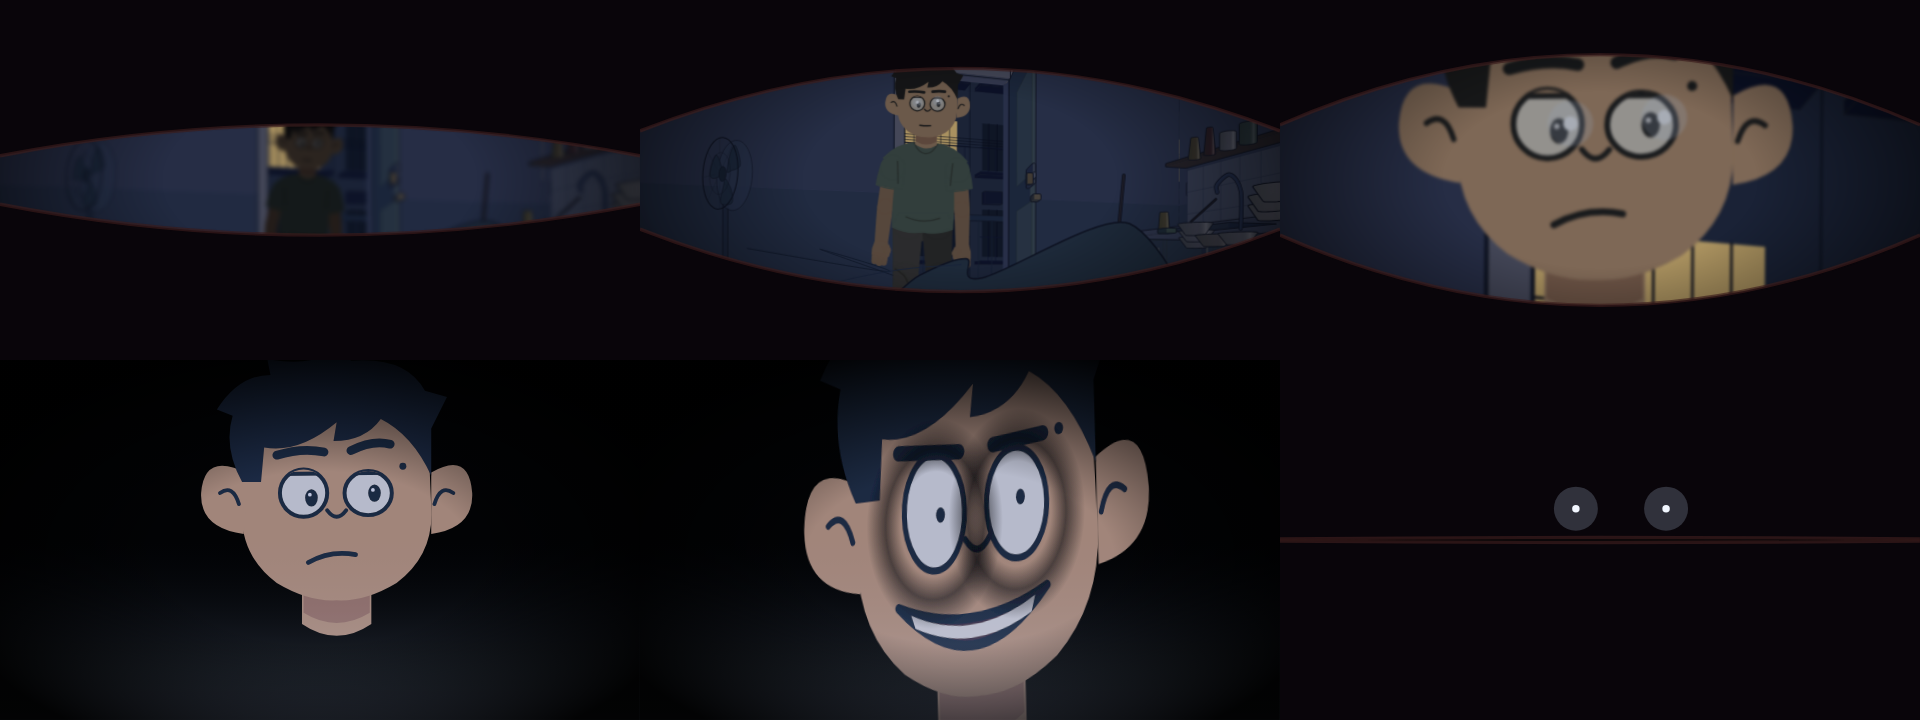
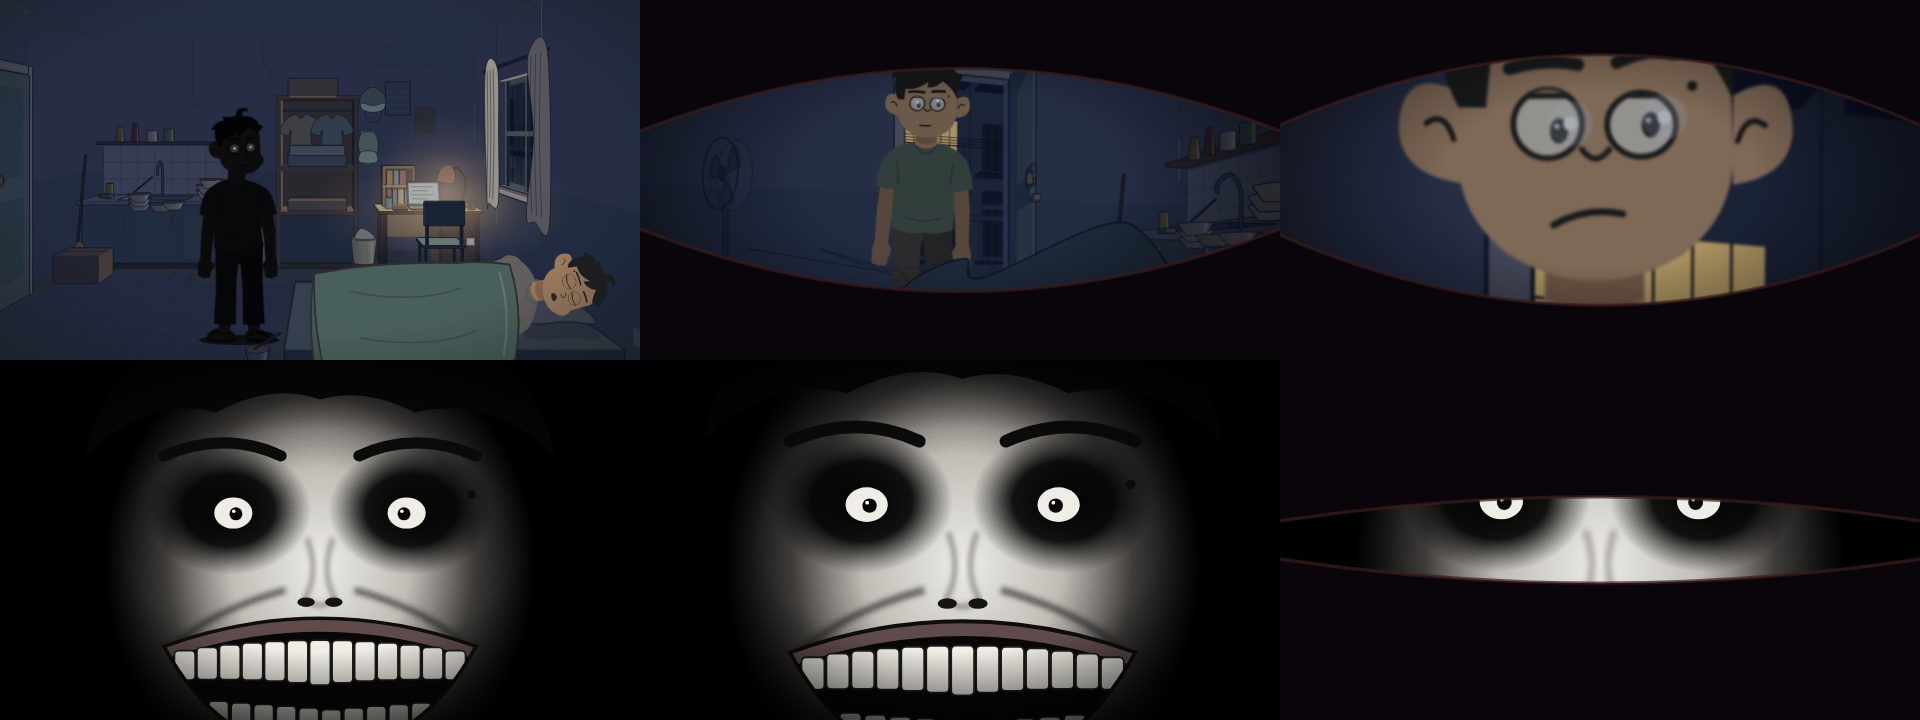
Jumpscare: hard cut to a drawn high-contrast scare face, shorter hit
Replace the warped cartoon close-up with a custom monochrome face (deep
sockets, small staring eyes, wide toothy grin, grain) that keeps the
double's curl and right-side mole. A short silence precedes the cut;
the scare lasts about 0.7 s before Nam's eyelids slam shut.

Claude-Session: https://claude.ai/code/session_015xtvRhLRyfqVC2mbHabEYR

diff --git a/what-if-studio/src/episodes/ho-so-02-nguoi-lam-thay/trailer-jumpscare.tsx b/what-if-studio/src/episodes/ho-so-02-nguoi-lam-thay/trailer-jumpscare.tsx
@@ -1,6 +1,6 @@
 import React from 'react';
 import { AbsoluteFill, Audio, interpolate, Sequence, staticFile, useCurrentFrame } from 'remotion';
-import { mixPose, sampleWalk, STAND_POSE, StudentTwinBody, StudentTwinHead } from '../../../../episodes/hem-co-chuyen/ho-so-02-nguoi-lam-thay/assets/nhan-vat';
+import { mixPose, sampleWalk, STAND_POSE, StudentTwinBody } from '../../../../episodes/hem-co-chuyen/ho-so-02-nguoi-lam-thay/assets/nhan-vat';
 import { placeOn, RoomNight } from '../../../../episodes/hem-co-chuyen/ho-so-02-nguoi-lam-thay/assets/boi-canh/boi-canh';
 import { Sleeper } from './canh-01-demo';
 
@@ -9,17 +9,16 @@ import { Sleeper } from './canh-01-demo';
  * W: toàn phòng ban đêm, Nam nằm ngủ (mẫu nằm toàn thân `Sleeper`). Bóng đen người đứng im cạnh nệm nhìn Nam;
  *    gần cuối cảnh hai đốm mắt trong bóng đen lóe sáng (giữ từ bản jumpscare đầu).
  * P: mắt Nam, mí còn nặng, mở dần, cảnh nhòe. Người kia, có mặt Nam, đi vào từ cửa; hai đốm mắt sáng lên khi Nam chớp mắt nhận ra.
- * C: người kia cúi sát, mặt lớn dần trong im lặng, nụ cười nở chậm; rồi một cú giật: khung rung, mí Nam sập xuống,
- *    trong bóng tối chỉ còn hai đốm mắt sáng rồi tắt. Không há miệng.
+ * C: im bặt một nhịp, cắt phụt vào mặt dọa (đen trắng, hốc mắt sâu, cười toác đầy răng), rung mạnh rồi mí Nam sập, đen. Không há miệng nuốt.
  * Báo thức và tên phim nằm ở timeline trailer, không trong clip này.
- * Âm: tiếng phòng ở W và P, tiếng ù thấp dâng ở C, tiếng hù đúng lúc mí sập (file thư viện chép vào public, xem P1.00).
+ * Âm: tiếng phòng ở W và P, tiếng ù thấp dâng cuối P, im 6 frame, tiếng hù đúng lúc cắt vào mặt (file thư viện chép vào public, xem P1.00).
  */
 export const WIDE = 66; // 2,2 giây toàn phòng
 export const POV = 150; // 5 giây mắt Nam: người kia tiến lại gần dần, máy zoom liền vào đầu
-export const CLOSE = 66; // 2,2 giây cận mặt đến lúc sập mí
-export const BLACK = 20;
+export const CLOSE = 20; // 0,67 giây: cắt phụt vào mặt dọa rồi sập tối, dứt khoát
+export const BLACK = 16;
 export const JUMP_TOTAL = WIDE + POV + CLOSE + BLACK;
-export const SLAM_AT = 0.82; // phần của C mà mí sập xuống
+export const SLAM_AT = 0.72; // phần của C mà mí sập xuống
 export const EYES_ON = 48; // frame hai đốm mắt lóe sáng ở cảnh toàn phòng
 
 const ease = (x: number) => x * x * (3 - 2 * x);
@@ -127,56 +126,70 @@ export const PovFrame: React.FC<{ u: number }> = ({ u }) => {
   );
 };
 
-/** Cận mặt: k 0..1 trong đoạn C. Lún dần vào mặt, nụ cười nở chậm; đến SLAM_AT thì giật, mí sập, chỉ còn hai đốm mắt. */
-export const CloseFrame: React.FC<{ k: number }> = ({ k }) => {
-  const lean = ease(clamp(k / SLAM_AT));
-  const s = 4.4 + 2.2 * lean;
-  const hx = 1010, hy = 300 - 78 * s;
-  const slam = clamp((k - SLAM_AT) / 0.05); // mí sập trong ~3 frame
-  const after = k >= SLAM_AT + 0.05;
-  const kick = k >= SLAM_AT && k < SLAM_AT + 0.12 ? Math.sin((k - SLAM_AT) * 260) * 60 * (1 - (k - SLAM_AT) / 0.12) : 0;
-  const tremor = Math.sin(k * 140) * 2.5 * lean;
-  const lids = 1 - ease(slam); // 1 mở, 0 khép
-  const eyeA = after ? 1 - clamp((k - SLAM_AT - 0.1) / 0.1) : 0;
-  const ex = (dx: number) => hx + (dx - 10) * s, ey = hy + 99 * s;
-  const w = ease(clamp((k - 0.4) / (SLAM_AT - 0.4))); // độ méo hình, tăng dần tới lúc dọa
-  const cy = hy + 95 * s;
-  const warp = `translate(${hx} ${cy}) rotate(${(-9 * w).toFixed(2)}) skewX(${(-7 * w).toFixed(2)}) scale(${(1 - 0.08 * w).toFixed(3)} ${(1 + 0.34 * w).toFixed(3)}) translate(${-hx} ${-cy})`;
-  const seed = Math.floor(k * 66) % 7 + 1;
+/** Mặt dọa: vẽ riêng cho cú hù, đen trắng tương phản mạnh, hốc mắt sâu, mắt nhỏ trừng, cười toác đầy răng, có hạt nhiễu.
+ *  Giữ tóc có lọn xoăn và nốt ruồi bên phải để vẫn nhận ra là bản sao của Nam. k 0..1 trong đoạn C. */
+const upperLip = (x: number) => { const t = (x - 600) / 720; return 770 - 130 * t * (1 - t); };
+export const ScareFace: React.FC<{ k: number }> = ({ k }) => {
+  const z = 1.3 + 0.18 * ease(clamp(k / SLAM_AT));
+  const amp = 34 * (1 - clamp(k / SLAM_AT));
+  const sx = Math.sin(k * 140) * amp, sy = Math.cos(k * 113) * amp * 0.6;
+  const slam = clamp((k - SLAM_AT) / 0.12);
+  const seed = Math.floor(k * 40) % 9 + 1;
+  const up = Array.from({ length: 13 }, (_, j) => j - 6);
+  const mouth = 'M600 770 Q960 640 1320 770 Q1190 1010 960 1012 Q730 1010 600 770 Z';
   return (
-    <AbsoluteFill style={{ background: '#020305' }}>
+    <AbsoluteFill style={{ background: '#000' }}>
       <svg width={1920} height={1080} viewBox="0 0 1920 1080">
         <defs>
-          <linearGradient id="cl-under" x1="0" y1="1" x2="0" y2="0"><stop offset="0" stopColor="#bcd6ff" stopOpacity=".5" /><stop offset=".5" stopColor="#0b1222" stopOpacity="0" /></linearGradient>
-          <radialGradient id="cl-vig" cx=".5" cy=".55" r=".6"><stop offset=".4" stopColor="#000" stopOpacity="0" /><stop offset="1" stopColor="#000" stopOpacity=".95" /></radialGradient>
-          <radialGradient id="cl-socket"><stop offset="0" stopColor="#05060a" stopOpacity="0" /><stop offset=".5" stopColor="#05060a" stopOpacity="0" /><stop offset=".72" stopColor="#05060a" stopOpacity=".7" /><stop offset="1" stopColor="#05060a" stopOpacity="0" /></radialGradient>
-          <filter id="cl-warp" x="-20%" y="-20%" width="140%" height="140%"><feTurbulence type="fractalNoise" baseFrequency=".006 .018" numOctaves="2" seed={seed} result="n" /><feDisplacementMap in="SourceGraphic" in2="n" scale={46 * w} xChannelSelector="R" yChannelSelector="G" /></filter>
-          <filter id="cl-face"><feColorMatrix type="matrix" values=".5 0 0 0 0  0 .54 0 0 .01  0 0 .7 0 .04  0 0 0 1 0" /></filter>
+          <radialGradient id="sf-light" cx=".5" cy=".5" r=".55"><stop offset="0" stopColor="#ecebe6" /><stop offset=".36" stopColor="#bdbab3" /><stop offset=".62" stopColor="#3a3835" /><stop offset=".86" stopColor="#000" /></radialGradient>
+          <radialGradient id="sf-socket"><stop offset="0" stopColor="#000" stopOpacity="1" /><stop offset=".55" stopColor="#000" stopOpacity=".92" /><stop offset="1" stopColor="#000" stopOpacity="0" /></radialGradient>
+          <radialGradient id="sf-vig" cx=".5" cy=".5" r=".62"><stop offset=".5" stopColor="#000" stopOpacity="0" /><stop offset="1" stopColor="#000" stopOpacity="1" /></radialGradient>
+          <clipPath id="sf-mouth"><path d={mouth} /></clipPath>
+          <filter id="sf-grain"><feTurbulence type="fractalNoise" baseFrequency=".9" numOctaves="2" seed={seed} /><feColorMatrix type="saturate" values="0" /></filter>
+          <filter id="sf-soft"><feGaussianBlur stdDeviation="6" /></filter>
         </defs>
-        <g transform={`translate(${960 + kick + tremor} ${540 + kick * 0.5}) translate(-960 -540)`}>
-          {!after && (
-            <g>
-              <g filter={w > 0.05 ? 'url(#cl-warp)' : undefined}>
-                <g transform={warp}>
-                  <g filter="url(#cl-face)"><StudentTwinHead identity="nguoi-kia" mood={k < 0.45 ? 'eerie_smirk' : 'stare_grin'} view="front" x={hx} y={hy} scale={s} id="cl-head" /></g>
-                  {w > 0 && [-11, 30].map((dx, i) => (
-                    <ellipse key={i} cx={ex(dx)} cy={ey + 4 * s} rx={34 * s} ry={38 * s} fill="url(#cl-socket)" opacity={w} />
-                  ))}
-                </g>
-              </g>
-              <rect x={-200} y={-200} width={2320} height={1480} fill="url(#cl-under)" style={{ mixBlendMode: 'screen' }} />
+        <g transform={`translate(${960 + sx} ${540 + sy}) scale(${z}) translate(-960 -540)`}>
+          {/* Khối mặt sáng từ chính diện, tối dần ra mép */}
+          <path d="M960 10 C1380 10 1500 360 1480 600 C1460 880 1250 1150 960 1160 C670 1150 460 880 440 600 C420 360 540 10 960 10 Z" fill="url(#sf-light)" />
+          {/* Tóc tối hòa vào nền, có lọn xoăn trên đỉnh */}
+          <path d="M420 330 Q450 40 960 -20 Q1470 40 1500 330 Q1360 190 1180 230 Q1060 170 960 200 Q850 160 720 230 Q560 190 420 330 Z" fill="#070707" />
+          <path d="M900 -10 Q980 -120 1060 -40 Q1010 -70 980 -20 Z" fill="#070707" />
+          {/* Hốc mắt sâu */}
+          <ellipse cx={750} cy={455} rx={190} ry={150} fill="url(#sf-socket)" />
+          <ellipse cx={1170} cy={455} rx={190} ry={150} fill="url(#sf-socket)" />
+          {/* Mắt nhỏ trừng, con ngươi nhìn thẳng */}
+          {[[760, 462], [1160, 462]].map(([x, y], i) => (
+            <g key={i}>
+              <ellipse cx={x} cy={y} rx={44} ry={36} fill="#efede6" />
+              <circle cx={x + (i ? -6 : 6)} cy={y + 2} r={15} fill="#060606" />
+              <circle cx={x + (i ? -11 : 1)} cy={y - 4} r={4} fill="#ffffff" />
             </g>
-          )}
-        </g>
-        <rect width={1920} height={1080} fill="url(#cl-vig)" />
-        {k >= SLAM_AT && <Lids s={lids} />}
-        {after && eyeA > 0 && (
-          <g opacity={eyeA} transform={`translate(${kick + tremor} ${kick * 0.5})`}>
-            {[-11, 30].map((dx, i) => (
-              <g key={i}><circle cx={ex(dx)} cy={ey} r={10 * s} fill="#cfe2ff" opacity={0.2} /><circle cx={ex(dx)} cy={ey} r={1.7 * s} fill="#f2f7ff" /></g>
-            ))}
+          ))}
+          {/* Lông mày hất cao */}
+          <path d="M600 330 Q740 270 870 330" fill="none" stroke="#0a0a0a" strokeWidth={26} strokeLinecap="round" />
+          <path d="M1050 330 Q1180 270 1320 330" fill="none" stroke="#0a0a0a" strokeWidth={26} strokeLinecap="round" />
+          {/* Nốt ruồi bên phải (dấu của bản sao) */}
+          <circle cx={1310} cy={420} r={10} fill="#0a0a0a" />
+          {/* Mũi: sống mũi sáng, cánh mũi và lỗ mũi tối */}
+          <path d="M930 520 Q960 600 925 660 Q960 690 995 660 Q960 600 990 520" fill="none" stroke="#3a3836" strokeWidth={10} opacity={0.5} filter="url(#sf-soft)" />
+          <ellipse cx={928} cy={668} rx={20} ry={11} fill="#141312" />
+          <ellipse cx={992} cy={668} rx={20} ry={11} fill="#141312" />
+          {/* Rãnh má kéo căng về khoé miệng */}
+          <path d="M880 640 Q700 690 610 780" fill="none" stroke="#1c1b1a" strokeWidth={16} opacity={0.6} filter="url(#sf-soft)" />
+          <path d="M1040 640 Q1220 690 1310 780" fill="none" stroke="#1c1b1a" strokeWidth={16} opacity={0.6} filter="url(#sf-soft)" />
+          {/* Miệng toác: lòng tối, lợi, hai hàm răng */}
+          <path d={mouth} fill="#080505" />
+          <g clipPath="url(#sf-mouth)">
+            <path d="M600 770 Q960 640 1320 770 L1320 800 Q960 672 600 800 Z" fill="#5b4747" />
+            {up.map((j) => { const x = 960 + j * 52, y = upperLip(x) + 18, h = 104 - Math.abs(j) * 6; return <rect key={`u${j}`} x={x - 24} y={y} width={48} height={h} rx={10} fill="#f0ede4" stroke="#1a1a1a" strokeWidth={4} />; })}
+            {up.map((j) => { const x = 960 + j * 52 + 26, h = 84 - Math.abs(j) * 5; return <rect key={`l${j}`} x={x - 23} y={1000 - h - Math.abs(j) * 9} width={46} height={h + 40} rx={10} fill="#dedbd2" stroke="#1a1a1a" strokeWidth={4} />; })}
           </g>
-        )}
+          <path d={mouth} fill="none" stroke="#0d0b0b" strokeWidth={8} />
+        </g>
+        <rect width={1920} height={1080} filter="url(#sf-grain)" opacity={0.2} style={{ mixBlendMode: 'overlay' }} />
+        <rect width={1920} height={1080} fill="url(#sf-vig)" />
+        {slam > 0 && <Lids s={1 - ease(slam)} />}
+        {slam >= 1 && <rect width={1920} height={1080} fill="#000" />}
       </svg>
     </AbsoluteFill>
   );
@@ -184,13 +197,13 @@ export const CloseFrame: React.FC<{ k: number }> = ({ k }) => {
 
 /** Âm thanh: file thư viện chép vào public/ho-so-02-nguoi-lam-thay/sfx/ (thư mục bị Git bỏ qua). */
 const SFX = (name: string) => staticFile(`ho-so-02-nguoi-lam-thay/sfx/${name}`);
-const SLAM_FRAME = WIDE + POV + Math.round(CLOSE * SLAM_AT);
 export const JumpAudio: React.FC = () => (
   <>
-    <Sequence durationInFrames={WIDE + POV}><Audio src={SFX('room_tone.mp3')} volume={0.5} /></Sequence>
-    <Sequence from={WIDE + POV - 12} durationInFrames={SLAM_FRAME - (WIDE + POV - 12)}><Audio src={SFX('power_hum.mp3')} volume={0.35} /></Sequence>
-    <Sequence from={SLAM_FRAME}><Audio src={SFX('drone_hit.mp3')} volume={1} /></Sequence>
-    <Sequence from={SLAM_FRAME}><Audio src={SFX('glitch.mp3')} volume={0.5} /></Sequence>
+    <Sequence durationInFrames={WIDE + POV - 6}><Audio src={SFX('room_tone.mp3')} volume={0.5} /></Sequence>
+    <Sequence from={WIDE + POV - 40} durationInFrames={34}><Audio src={SFX('power_hum.mp3')} volume={0.35} /></Sequence>
+    {/* 6 frame im bặt trước cú hù */}
+    <Sequence from={WIDE + POV}><Audio src={SFX('drone_hit.mp3')} volume={1} /></Sequence>
+    <Sequence from={WIDE + POV}><Audio src={SFX('glitch.mp3')} volume={0.5} /></Sequence>
   </>
 );
 
@@ -199,14 +212,14 @@ export const HoSo02TrailerJumpscare: React.FC = () => {
   const view = f < WIDE
     ? <JumpWide t={interpolate(f, [0, WIDE], [0, 1])} eyes={interpolate(f, [EYES_ON, EYES_ON + 6], [0, 1], { extrapolateLeft: 'clamp', extrapolateRight: 'clamp' })} />
     : f < WIDE + POV ? <PovFrame u={(f - WIDE) / POV} />
-    : f < WIDE + POV + CLOSE ? <CloseFrame k={(f - WIDE - POV) / CLOSE} />
+    : f < WIDE + POV + CLOSE ? <ScareFace k={(f - WIDE - POV) / CLOSE} />
     : <AbsoluteFill style={{ background: '#000' }} />;
   return <AbsoluteFill>{view}<JumpAudio /></AbsoluteFill>;
 };
 
 /** Sáu khung tĩnh để duyệt: người kia tiến lại gần, zoom vào đầu, mặt méo dần, mí sập. */
 export const HoSo02JumpscareBoard: React.FC = () => {
-  const panels: React.ReactNode[] = [<PovFrame u={0.4} />, <PovFrame u={0.72} />, <PovFrame u={0.97} />, <CloseFrame k={0.2} />, <CloseFrame k={0.7} />, <CloseFrame k={0.87} />];
+  const panels: React.ReactNode[] = [<JumpWide t={1} eyes={1} />, <PovFrame u={0.72} />, <PovFrame u={0.97} />, <ScareFace k={0} />, <ScareFace k={0.5} />, <ScareFace k={0.8} />];
   return (
     <div style={{ width: 1920, height: 720, display: 'grid', gridTemplateColumns: '1fr 1fr 1fr', gridTemplateRows: '1fr 1fr', background: '#111' }}>
       {panels.map((el, i) => (

diff --git a/episodes/hem-co-chuyen/ho-so-02-nguoi-lam-thay/PHAN-01-NGUOI-TRONG-PHONG.md b/episodes/hem-co-chuyen/ho-so-02-nguoi-lam-thay/PHAN-01-NGUOI-TRONG-PHONG.md
@@ -115,11 +115,11 @@ Chỉ cảnh đầu là toàn phòng; từ đó trở đi là **góc nhìn của
 
 **P · 5 giây.** Cắt sang mắt Nam: mí còn nặng, mở dần theo hình thấu kính, cảnh nhòe rồi rõ dần. Người kia, mặt giống hệt Nam, đi vào từ cửa, **tiến lại gần đều và chậm**. Nam chớp mắt một lần khi nhận ra chính mình, hai đốm mắt sáng lên. Gần cuối, máy **zoom liền vào đầu** nó, không cắt.
 
-**C · 2,2 giây.** Mặt lớn dần trong im lặng, nụ cười nở chậm. Khi dọa, **mặt méo đi**: kéo dài, nghiêng, hốc mắt lõm tối, viền gợn như nhiễu. Ở đỉnh, khung giật mạnh, **mí Nam sập xuống**, trong bóng tối chỉ còn hai đốm mắt sáng rồi tắt.
+**C · khoảng 0,7 giây, dứt khoát.** Tiếng phòng tắt bặt một nhịp ngắn, rồi **cắt phụt vào mặt dọa** kín khung: đen trắng tương phản mạnh, hốc mắt sâu tối, mắt nhỏ trừng, cười toác lộ hai hàm răng, có hạt nhiễu. Vẫn giữ tóc có lọn xoăn và nốt ruồi bên phải để nhận ra bản sao. Khung rung mạnh và đẩy vào, rồi **mí Nam sập xuống**, đen hẳn. Mặt vẽ riêng theo phong cách ảnh tham khảo của chủ repo, không chép ảnh.
 
-**Âm:** tiếng phòng ở W và P; tiếng ù thấp dâng từ cuối P; tiếng hù (`drone_hit` chồng `glitch`) đúng lúc mí sập. Mọi âm lấy từ thư viện, chưa nghe duyệt kỹ.
+**Âm:** tiếng phòng ở W và P; tiếng ù thấp dâng cuối P; im khoảng 0,2 giây; tiếng hù (`drone_hit` chồng `glitch`) đúng frame cắt vào mặt. Âm lấy từ thư viện, chưa nghe duyệt kỹ.
 
-**Cắt đen**, rồi chuông báo thức vào ở O06. Cả đoạn dài khoảng 10 giây, dài hơn mốc 4 giây cũ; tổng trailer sẽ vượt 40 giây nếu giữ nguyên các đoạn khác.
+**Cắt đen**, rồi chuông báo thức vào ở O06. Cả đoạn dài khoảng 8,5 giây, dài hơn mốc 4 giây cũ; tổng trailer sẽ vượt 40 giây nếu giữ nguyên các đoạn khác.
 
 **Logic truyện:** theo [dòng thời gian V1](LUAT-BAN-NHAP-V1.md#dòng-thời-gian-và-quyền), thực thể ra ngoài trong đêm trước ngày 1. Cú hù chỉ cho thấy nó đứng nhìn Nam ngủ; không lộ nó từ đâu ra hay gương liên quan thế nào. Nó mặc áo xanh lấy từ ghế, khớp với buổi sáng ở P1.01. Đây là cảnh đề xuất mới, chưa được duyệt thành lore.
 
